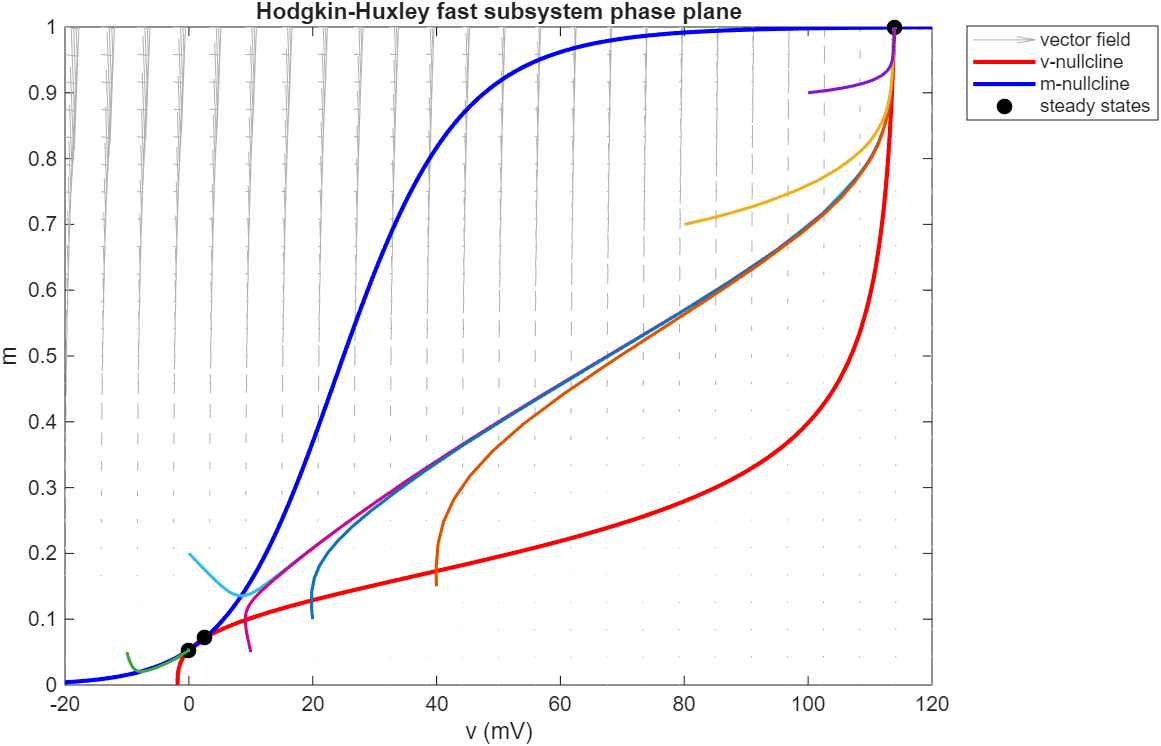
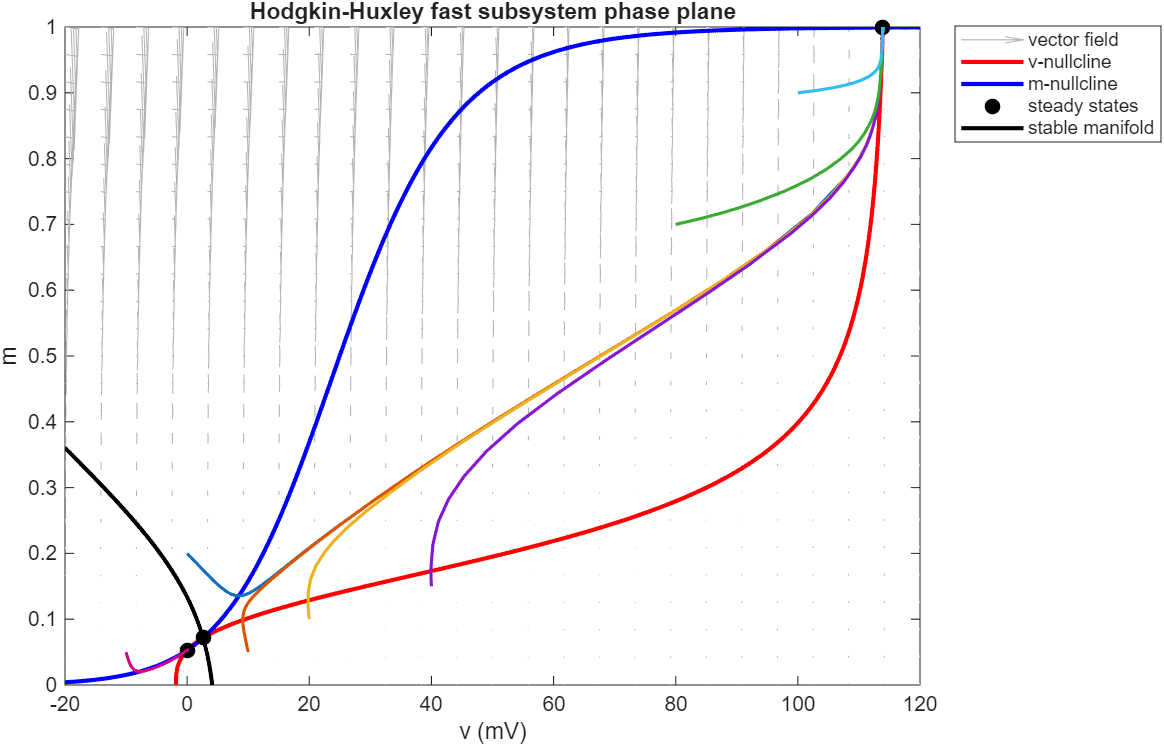
Add files via upload

diff --git a/classes/math5750Fall2025/hw8_problem3.m b/classes/math5750Fall2025/hw8_problem3.m
@@ -1,99 +1,166 @@
-function hh_fast_phase_plane
-    % Parameters
-    gNa = 120;
-    gK  = 36;
-    gL  = 0.3;
-    Cm  = 1;
+clear; close all; clc;
 
-    vNa = 115;
-    vK  = -12;
-    vL  = 10.6;
+%% Parameters
+gNa = 120;
+gK  = 36;
+gL  = 0.3;
+Cm  = 1;
 
-    h0  = 0.596;
-    n0  = 0.3176;
+vNa = 115;
+vK  = -12;
+vL  = 10.6;
 
-    % Gating-rate functions (v in mV, t in ms)
-    alpha_m_raw = @(v) 0.1*(25 - v) ./ (exp((25 - v)/10) - 1);
-    beta_m      = @(v) 4*exp(-v/18);
+h0  = 0.596;
+n0  = 0.3176;
 
-    % Regularize alpha_m at v = 25 mV (remove 0/0)
-    alpha_m = @(v) (abs(25-v) < 1e-6).*1 + ...
-                   (abs(25-v) >= 1e-6).*alpha_m_raw(v);
+%% Gating-rate functions (v in mV, t in ms)
+alpha_m_raw = @(v) 0.1*(25 - v) ./ (exp((25 - v)/10) - 1);
+beta_m      = @(v) 4*exp(-v/18);
 
-    m_inf = @(v) alpha_m(v) ./ (alpha_m(v) + beta_m(v));
+% Regularize alpha_m at v = 25 mV (remove 0/0)
+alpha_m = @(v) (abs(25-v) < 1e-6).*1 + ...
+               (abs(25-v) >= 1e-6).*alpha_m_raw(v);
 
-    % ODE system: y = [v; m]
-    f = @(t,y) [
-        ( -gK*n0^4*(y(1)-vK) ...
-          -gNa*(y(2)^3)*h0*(y(1)-vNa) ...
-          -gL*(y(1)-vL) ) / Cm;
-        alpha_m(y(1))*(1 - y(2)) - beta_m(y(1))*y(2)
-    ];
+m_inf = @(v) alpha_m(v) ./ (alpha_m(v) + beta_m(v));
 
-    % Phase plane grid
-    vmin = -20;  vmax = 120;
-    mmin = 0;    mmax = 1;
+%% ODE system: y = [v; m]
+f = @(t,y) [ ...
+    ( -gK*n0^4*(y(1)-vK) ...
+      -gNa*(y(2)^3)*h0*(y(1)-vNa) ...
+      -gL*(y(1)-vL) ) / Cm; ...
+    alpha_m(y(1))*(1 - y(2)) - beta_m(y(1))*y(2) ...
+];
 
-    [V,M] = meshgrid(linspace(vmin,vmax,25), linspace(mmin,mmax,25));
-    dV = (-gK*n0^4.*(V - vK) ...
-          -gNa.*(M.^3).*h0.*(V - vNa) ...
-          -gL.*(V - vL)) / Cm;
-    dM = alpha_m(V).*(1-M) - beta_m(V).*M;
+%% Phase plane grid and vector field
+vmin = -20;  vmax = 120;
+mmin = 0;    mmax = 1;
 
-    figure; hold on; box on;
-    quiver(V,M,dV,dM,0.4,'Color',[0.7 0.7 0.7]);
+[V,M] = meshgrid(linspace(vmin,vmax,25), linspace(mmin,mmax,25));
+dV = (-gK*n0^4.*(V - vK) ...
+      -gNa.*(M.^3).*h0.*(V - vNa) ...
+      -gL.*(V - vL)) / Cm;
+dM = alpha_m(V).*(1-M) - beta_m(V).*M;
 
-    % v-nullcline: dv/dt = 0, v as a function of m
-    v_nc_fun = @(m) ( gNa.*(m.^3)*h0*vNa + gK*n0^4*vK + gL*vL ) ./ ...
-                    ( gNa.*(m.^3).*h0     + gK*n0^4    + gL );
+figure; hold on; box on; set(gcf,'Color','w');
+quiver(V,M,dV,dM,0.4,'Color',[0.7 0.7 0.7]);
 
-    m_vals = linspace(mmin,mmax,400);
-    v_nc   = v_nc_fun(m_vals);
-    plot(v_nc, m_vals, 'r', 'LineWidth', 2);
+%% v-nullcline: dv/dt = 0, v as a function of m
+v_nc_fun = @(m) ( gNa.*(m.^3)*h0*vNa + gK*n0^4*vK + gL*vL ) ./ ...
+                ( gNa.*(m.^3).*h0     + gK*n0^4    + gL );
 
-    % m-nullcline: dm/dt = 0, m = m_inf(v)
-    v_vals = linspace(vmin,vmax,400);
-    m_nc   = m_inf(v_vals);
-    plot(v_vals, m_nc, 'b', 'LineWidth', 2);
+m_vals = linspace(mmin,mmax,400);
+v_nc   = v_nc_fun(m_vals);
+plot(v_nc, m_vals, 'r', 'LineWidth', 2);
 
-    % Find steady states as intersections of nullclines
-    F = @(m) m_inf( v_nc_fun(m) ) - m;
+%% m-nullcline: dm/dt = 0, m = m_inf(v)
+v_vals = linspace(vmin,vmax,400);
+m_nc   = m_inf(v_vals);
+plot(v_vals, m_nc, 'b', 'LineWidth', 2);
 
-    m_scan = linspace(mmin+1e-4,mmax-1e-4,2000);
-    F_scan = F(m_scan);
-    idx = find(diff(sign(F_scan)));   % sign changes -> roots
+%% Steady states as intersections of nullclines
+Froot = @(m) m_inf( v_nc_fun(m) ) - m;
 
-    m_eq = zeros(numel(idx),1);
-    v_eq = zeros(numel(idx),1);
-    for k = 1:numel(idx)
-        m_lo = m_scan(idx(k));
-        m_hi = m_scan(idx(k)+1);
-        m_eq(k) = fzero(F,[m_lo,m_hi]);
-        v_eq(k) = v_nc_fun(m_eq(k));
+m_scan = linspace(mmin+1e-4,mmax-1e-4,2000);
+F_scan = Froot(m_scan);
+idx = find(diff(sign(F_scan)));   % sign changes -> roots
+
+m_eq = zeros(numel(idx),1);
+v_eq = zeros(numel(idx),1);
+for k = 1:numel(idx)
+    m_lo = m_scan(idx(k));
+    m_hi = m_scan(idx(k)+1);
+    m_eq(k) = fzero(Froot,[m_lo,m_hi]);
+    v_eq(k) = v_nc_fun(m_eq(k));
+end
+
+plot(v_eq, m_eq, 'ko', 'MarkerFaceColor','k', 'MarkerSize',7);
+
+
+
+%% Stable manifold of the saddle
+
+% Vector field as a function of (v,m) only
+Fvec = @(v,m) [ ...
+    (-gK*n0^4.*(v - vK) ...
+     -gNa.*(m.^3).*h0.*(v - vNa) ...
+     -gL.*(v - vL)) / Cm; ...
+     alpha_m(v).*(1 - m) - beta_m(v).*m ];
+
+% Numerical Jacobian at (v,m)
+epsJ = 1e-6;
+numJ = @(v,m) [ ...
+    (Fvec(v+epsJ,m) - Fvec(v-epsJ,m))/(2*epsJ), ...
+    (Fvec(v,m+epsJ) - Fvec(v,m-epsJ))/(2*epsJ) ];
+
+% Find saddle equilibrium (mixed-sign eigenvalues)
+idx_saddle = [];
+for k = 1:numel(v_eq)
+    Jk  = numJ(v_eq(k), m_eq(k));
+    lam = eig(Jk);
+    if real(lam(1))*real(lam(2)) < 0
+        idx_saddle = k;
+        break
     end
+end
 
-    plot(v_eq, m_eq, 'ko', 'MarkerFaceColor','k', 'MarkerSize',7);
+v_s = v_eq(idx_saddle);
+m_s = m_eq(idx_saddle);
 
-    % Sample trajectories
-    tspan = [0 150];  % ms
-    ICs = [...
-        -10  0.05;
-         0   0.2;
-        10   0.05;
-        20   0.1;
-        40   0.15;
-        80   0.7;
-       100   0.9];
+% Stable eigenvector of the saddle
+Js = numJ(v_s,m_s);
+[vecs,vals] = eig(Js);
+lam = diag(vals);
+[~,i_stable] = min(real(lam));   % most negative eigenvalue
+e_s = vecs(:,i_stable);
+e_s = e_s / norm(e_s);
 
-    for k = 1:size(ICs,1)
-        [t,y] = ode45(f, tspan, ICs(k,:).');
-        plot(y(:,1), y(:,2), 'LineWidth', 1.5);
-    end
+% Start a little away from the saddle along ±e_s
+eps0 = 1e-3;
+IC1 = [v_s; m_s] + eps0*e_s;
+IC2 = [v_s; m_s] - eps0*e_s;
 
-    xlabel('v (mV)');
-    ylabel('m');
-    title('Hodgkin-Huxley fast subsystem phase plane');
-    legend({'vector field','v-nullcline','m-nullcline','steady states'}, ...
-           'Location','bestoutside');
-    axis([vmin vmax mmin mmax]);
+% Integrate backward in time with stopping when leaving the window
+tspan_man = [0 -80];   % shorter to avoid wild blow-up
+opts = odeset('RelTol',1e-8,'AbsTol',1e-10, ...
+              'Events',@(t,y) stop_outside(t,y,vmin,vmax,mmin,mmax));
+
+[t1,y1] = ode45(f, tspan_man, IC1, opts);
+[t2,y2] = ode45(f, tspan_man, IC2, opts);
+
+% Plot stable manifold branches
+plot(y1(:,1), y1(:,2), 'k', 'LineWidth', 2);
+plot(y2(:,1), y2(:,2), 'k', 'LineWidth', 2);
+
+%% Sample trajectories
+tspan = [0 150];  % ms
+ICs = [...
+    -10  0.05;
+      0  0.20;
+     10  0.05;
+     20  0.10;
+     40  0.15;
+     80  0.70;
+    100  0.90];
+
+for k = 1:size(ICs,1)
+    [t,y] = ode45(f, tspan, ICs(k,:).');
+    plot(y(:,1), y(:,2), 'LineWidth', 1.5);
+end
+
+%% Labels and formatting
+xlabel('v (mV)');
+ylabel('m');
+title('Hodgkin-Huxley fast subsystem phase plane');
+axis([vmin vmax mmin mmax]);
+legend({'vector field','v-nullcline','m-nullcline', ...
+        'steady states','stable manifold'}, ...
+       'Location','bestoutside');
+
+%% Local event function (must be at end of file)
+function [value,isterminal,direction] = stop_outside(t,y,vmin,vmax,mmin,mmax)
+    v = y(1); m = y(2);
+    % Stop when v or m leaves the plotting window
+    value = [v - vmin; vmax - v; m - mmin; mmax - m];
+    isterminal = [1; 1; 1; 1];
+    direction  = [0; 0; 0; 0];
 end
